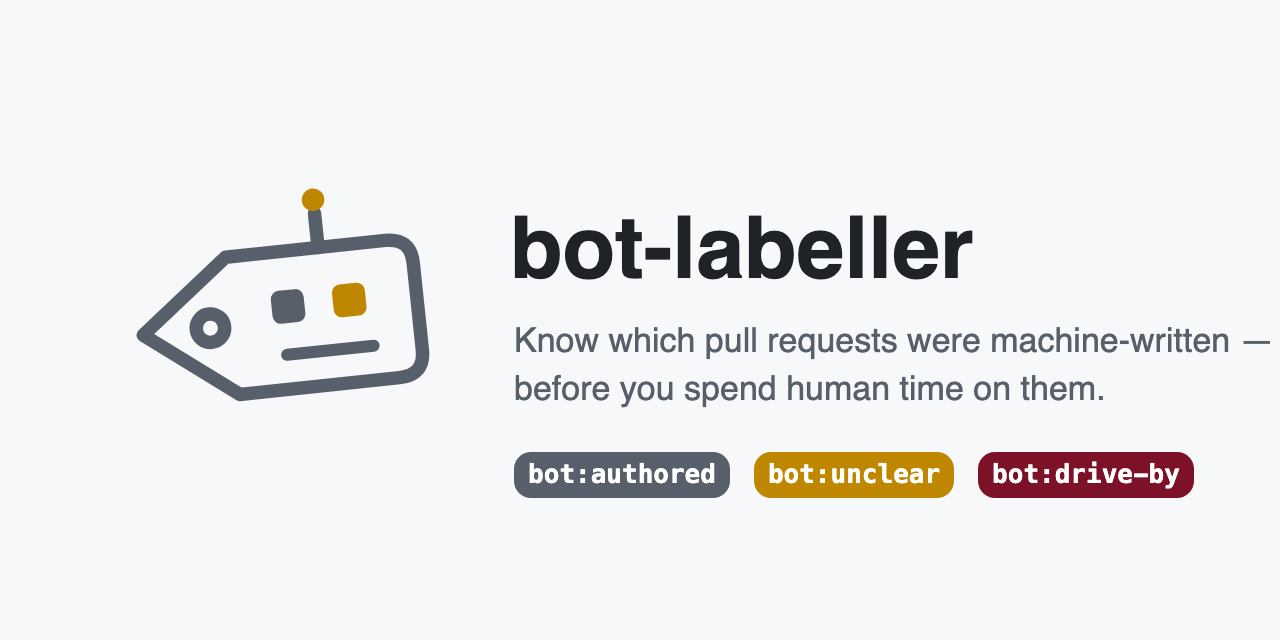
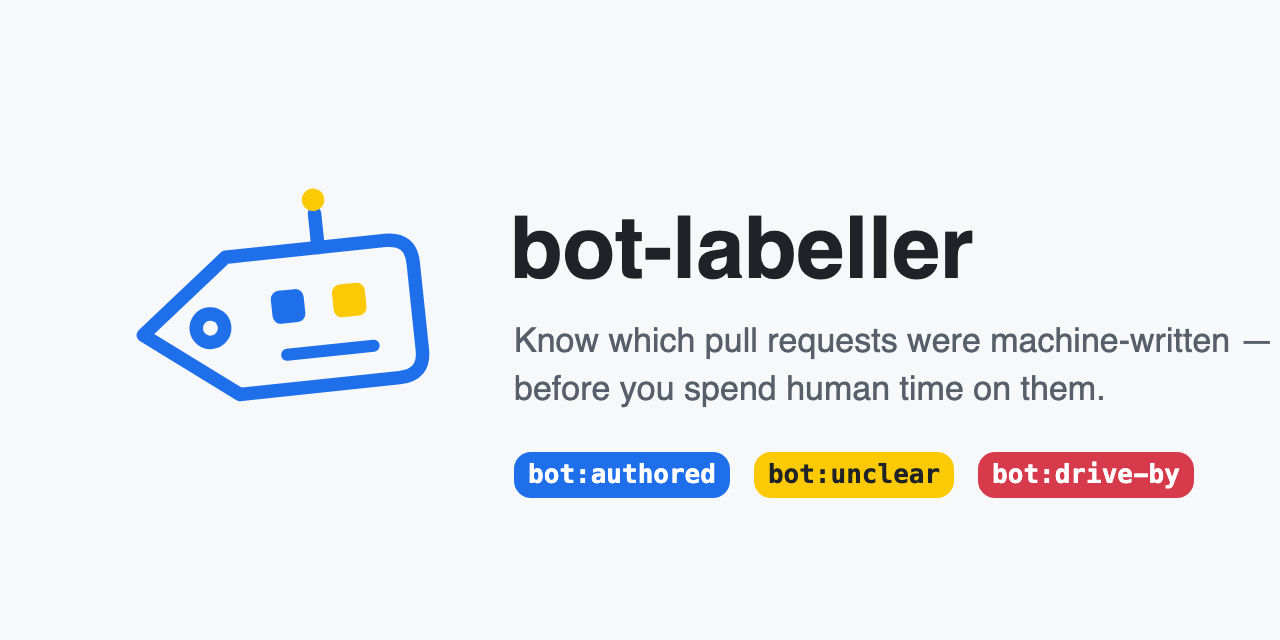
feat: brighten the label palette to hues GitHub already teaches
slate/gold/crimson read as faded in GitHub's label UI — mid-tones look
disabled next to the saturated default set. The new palette borrows the
intuitions users already have: blue like `documentation` for bot:authored
(informational, still not a warning), bright yellow for bot:unclear, red
like `bug` for bot:drive-by.

Label creation stays create-only, so repos that already carry the labels
keep whatever colours they have — nothing is recoloured under a maintainer.

The README pills move from shields.io to local SVGs because shields always
draws white text, which is unreadable on the yellow; the local pills mimic
real GitHub labels, dark text on light backgrounds included. Logo and
social banner re-cut in the same palette.

Changed region(s): [[0.375, 0.6875, 0.9375, 0.7812], [0.0938, 0.2812, 0.3438, 0.625]]

diff --git a/README.md b/README.md
@@ -10,9 +10,9 @@ drive-by automation, applies an honest label, and posts a single evidence
 report. Deterministic, dependency-free, and it never runs the contributor's code.
 
 [![ci](https://github.com/neolitec/bot-labeller/actions/workflows/ci.yml/badge.svg)](https://github.com/neolitec/bot-labeller/actions/workflows/ci.yml)
-[![release](https://img.shields.io/github/v/release/neolitec/bot-labeller?logo=github&color=57606a)](https://github.com/neolitec/bot-labeller/releases)
-[![marketplace](https://img.shields.io/badge/marketplace-bot--labeller-bf8700?logo=github)](https://github.com/marketplace/actions/bot-labeller)
-[![license: MIT](https://img.shields.io/badge/license-MIT-57606a)](LICENSE)
+[![release](https://img.shields.io/github/v/release/neolitec/bot-labeller?logo=github&color=1f6feb)](https://github.com/neolitec/bot-labeller/releases)
+[![marketplace](https://img.shields.io/badge/marketplace-bot--labeller-1f6feb?logo=github)](https://github.com/marketplace/actions/bot-labeller)
+[![license: MIT](https://img.shields.io/badge/license-MIT-1f6feb)](LICENSE)
 
 [Quick start](#quick-start) ·
 [How it works](#two-scores-not-one) ·
@@ -121,13 +121,15 @@ and the whole set is one search away — `label:bot:authored`, or just scan for
 
 | Label | Meaning |
 |:--|:--|
-| ![bot:authored](https://img.shields.io/badge/bot%3Aauthored-57606a?style=flat-square) | Machine authorship is self-declared. A **neutral fact** — deliberately not a warning colour. |
-| ![bot:unclear](https://img.shields.io/badge/bot%3Aunclear-bf8700?style=flat-square) | Circumstantial signals only; a reading pass is owed. |
-| ![bot:drive-by](https://img.shields.io/badge/bot%3Adrive--by-7d1128?style=flat-square) | The only label that asserts a problem. |
+| ![bot:authored](assets/labels/bot-authored.svg) | Machine authorship is self-declared. A **neutral fact** — informational blue, deliberately not a warning colour. |
+| ![bot:unclear](assets/labels/bot-unclear.svg) | Circumstantial signals only; a reading pass is owed. |
+| ![bot:drive-by](assets/labels/bot-drive-by.svg) | The only label that asserts a problem. |
 
-The colours carry the argument: slate for a fact, gold for attention, crimson for
-the one case that is actually a complaint. Labels are created on demand — nothing
-to set up in the repository first.
+The colours carry the argument, in hues every GitHub user already knows: blue for
+a fact (like `documentation`), yellow for attention, red for the one case that is
+actually a complaint (like `bug`). Labels are created on demand — nothing to set
+up in the repository first — and if your repo already has them, your colours are
+left alone.
 
 Self-declared bots (GitHub Apps, `[bot]` accounts — dependabot, renovate) are
 **exempt**: no label, no comment. They already told you what they are.

diff --git a/SKILL.md b/SKILL.md
@@ -107,9 +107,9 @@ in one search.
 
 | Label | Colour | When |
 |:--|:--|:--|
-| `bot:authored` | `#57606a` slate | `CONFIRMED` — a neutral fact, not a warning colour |
-| `bot:unclear` | `#bf8700` gold | `REVIEW` — a reading pass is owed |
-| `bot:drive-by` | `#7d1128` crimson | drive-by ≥ 70 — the only label asserting a problem |
+| `bot:authored` | `#1f6feb` blue | `CONFIRMED` — an informational fact, not a warning colour |
+| `bot:unclear` | `#fbca04` yellow | `REVIEW` — a reading pass is owed |
+| `bot:drive-by` | `#d73a4a` red | drive-by ≥ 70 — the only label asserting a problem |
 
 `--json` and `--label` compose in one invocation.
 
